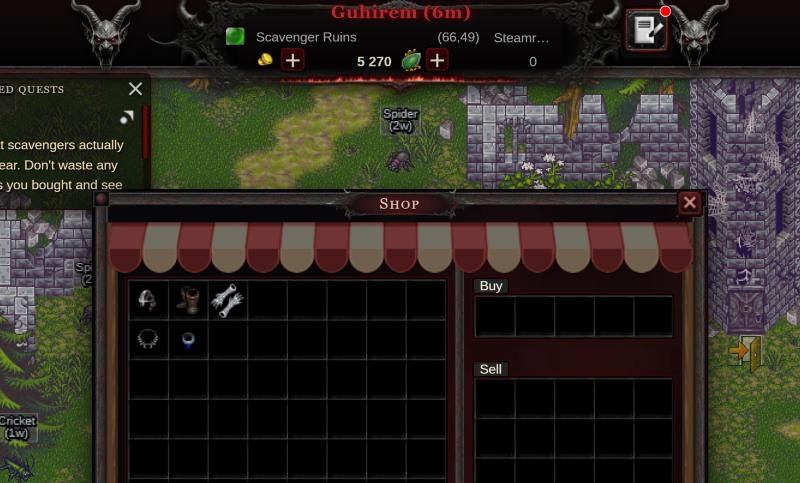
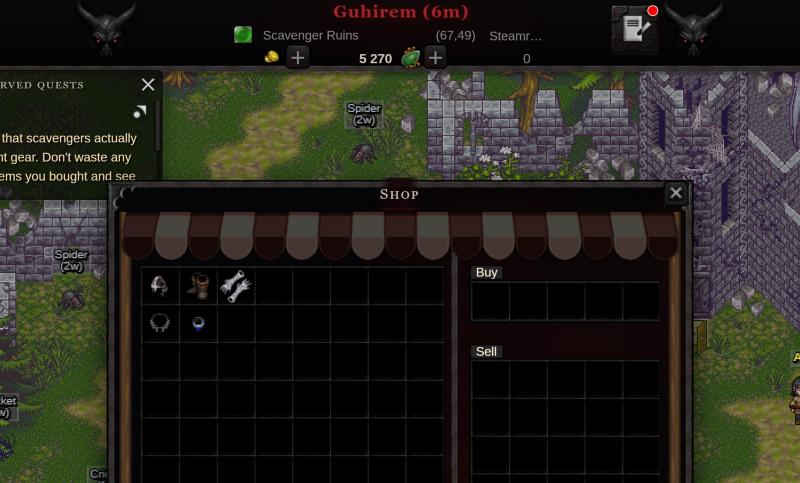
Dark Gothic 3.0.0 — README i zrzuty przed/po

diff --git a/README.md b/README.md
@@ -97,21 +97,21 @@ Dostosowanie: kolory wariantów to zmienne CSS `--ck-*` w blokach `html[data-ck-
 
 ## Margonem — Dark Gothic
 
-Mroczny, demoniczny motyw dla **nowego interfejsu (NI)** gry Margonem, zbudowany z **własnych rastrowych grafik**: rogate głowy demonów, czarne żelazo z runami i żarem, krwawy dym, pierścień kuli HP z rogami. Paleta: prawie czarny `#070607`/`#0b0b0d`, bordo i ciemna czerwień `#3a0508`/`#5a0a0f`/`#8b0000`, żar `#c0262d`, kość `#d8cfc0`.
+Mroczny, spójny motyw dla **nowego interfejsu (NI)** gry Margonem, zbudowany z **własnych rastrowych grafik**: spękany, okopcony kamień z wytartymi runami, poniszczone maski demonów, runiczny pierścień kuli HP. Prawie wszystko jest czarne, a czerwień to tylko stłumiony akcent. Paleta: `#050405`/`#09080a`/`#110e10`, przygaszona czerwień `#43080c`/`#6e0f14`/`#8f1a1f`, popiół `#8d878c`, kość `#cbc2b6`.
 
 Co jest ostylowane:
-- **tabliczka HUD** (imię, lokacja, złoto) — kuta tabliczka z rogami, imię czerwonymi kapitalikami, **głowy demonów** po obu stronach,
-- **kula HP** — żelazny pierścień z rogami i kolcami, krwawa poświata; gra dalej pokazuje w środku swój poziom HP i procent,
-- **dolny panel** — poczerniała oprawa pasków EXP (karmazyn), głowy demonów na końcach, ciemne sloty,
-- **górna i dolna belka** — czerń z belką z runami i żarem na krawędzi,
-- **przyciski HUD** — ciemne obsydianowe kafle z czerwoną poświatą, ikony w szarości (kolor przy najechaniu), kolor gry (fiolet, niebieski) zostaje jako delikatna poświata,
-- **okna z ramką** — ramka 9-slice z belki z runami i żelaznymi guzami z żarem (`border-image`, skaluje się do każdego rozmiaru), krwawy dym w tle, **baner tytułu z rogami**, czaszka demona pod oknem,
-- **okna przezroczyste** (śledzone questy, sorter) — czerń z czerwoną obwódką,
-- **dialog z NPC** — ta sama rama i głowa demona nad oknem,
-- **sklep** — markiza w ciemnym bordo, krata zamiast drewnianej belki,
-- **ekwipunek, torby, statystyki, czat** — czarne tło z krwawym dymem od dołu, czerwone aktywne zakładki, kolory kanałów bez zmian,
-- **tooltipy przedmiotów** — żelazna ramka, czerwony nagłówek, kolory rzadkości bez zmian,
-- **przyciski tekstowe** — obsydianowe kafle; czerwony, niebieski i fioletowy przycisk gry zachowują znaczenie,
+- **tabliczka HUD** (imię, lokacja, waluty) — imię w przygaszonej czerwieni na czerni, **poniszczone maski demonów** po obu stronach,
+- **kula HP** — **runiczny pierścień** ze spękanego żelaza, który powoli się obraca, a żar w rowkach run pulsuje (animacja wyłącza się przy systemowym „ogranicz ruch”); gra dalej pokazuje w środku swój poziom HP i procent,
+- **dolny panel** — poczerniała oprawa, EXP w ciemnym karmazynie, maski demonów po bokach kuli, ciemne sloty,
+- **górna i dolna belka** — czerń z cienką kamienną krawędzią,
+- **przyciski HUD** — **12 kamiennych kafli o różnym stopniu zniszczenia** (każdy pasek zaczyna od innego, więc sąsiednie przyciski się różnią), ikony w szarości, kolor gry (fiolet, niebieski) zostaje jako słaby poblask,
+- **okna z ramką** — cienka (6 px) kamienna ramka 9-slice (`border-image`, skaluje się do każdego rozmiaru) z subtelnymi narożnikami w kształcie sierpowatych rogów z runą, bardzo ciemny dym w tle, tytuł kapitalikami na czerni,
+- **okna przezroczyste** (śledzone questy, sorter) — czerń z cienką obwódką,
+- **dialog z NPC** — ta sama cienka rama z narożnikami,
+- **sklep** — markiza przyciemniona do brązowej czerni, kamienna krawędź zamiast drewnianej belki,
+- **ekwipunek, torby, statystyki, czat** — czarne tło z ledwo widocznym dymem od dołu, aktywne zakładki z cienką czerwoną kreską, kolory kanałów bez zmian,
+- **tooltipy przedmiotów** — cienka kamienna ramka, ciemny nagłówek, kolory rzadkości bez zmian,
+- **przyciski tekstowe** — kamienna oprawa; czerwony, niebieski i fioletowy przycisk gry zachowują znaczenie (stonowane),
 - **paski postępu, scrollbary**.
 
 Mapa (canvas) i logika gry pozostają nietknięte — skrypt wstrzykuje wyłącznie CSS.
@@ -126,4 +126,4 @@ Instalacja:
 
 Wyłączanie: **Ctrl+Alt+G** albo ikona Tampermonkey → „Dark Gothic: włącz / wyłącz” (wybór jest zapamiętywany).
 
-Grafiki leżą w [assets/dark-gothic/](assets/dark-gothic/) (10 plików WebP, razem ok. 140 KB, każdy poniżej 40 KB) i są ładowane przez jsDelivr. Zostały wygenerowane modelem FLUX.1 Krea (seed 1337) jako osobne elementy, tło wycięte kluczowaniem czerni, środek pierścienia kuli HP wycięty pod kulę gry, belka dopasowana do bezszwowego powtarzania. Zrzuty przed/po: [margonem-dark-gothic/screenshots/](margonem-dark-gothic/screenshots/).
+Grafiki leżą w [assets/dark-gothic/](assets/dark-gothic/) (22 pliki WebP, razem ok. 158 KB, każdy poniżej 30 KB) i są ładowane przez jsDelivr. Zostały wygenerowane modelem FLUX.1 Krea jako osobne elementy i zaakceptowane pojedynczo; tło wycięte kluczowaniem czerni, środek pierścienia kuli HP wycięty pod kulę gry, żar run wydzielony na osobną warstwę do animacji, kafle ujednolicone pod jasność. Zrzuty przed/po: [margonem-dark-gothic/screenshots/](margonem-dark-gothic/screenshots/).
